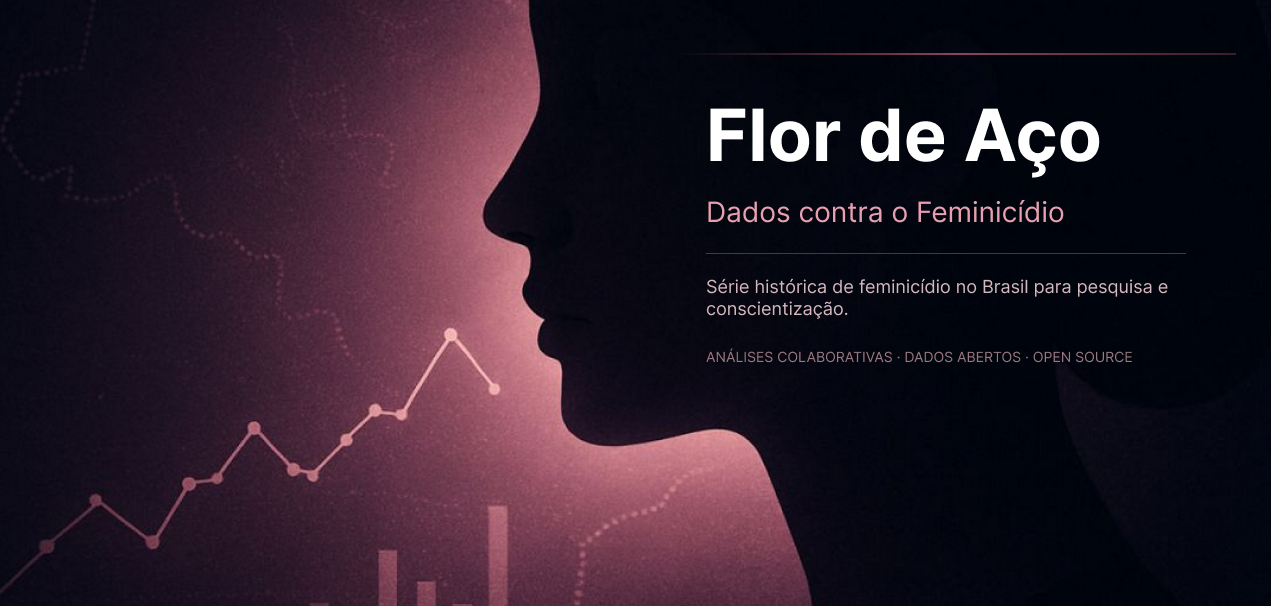
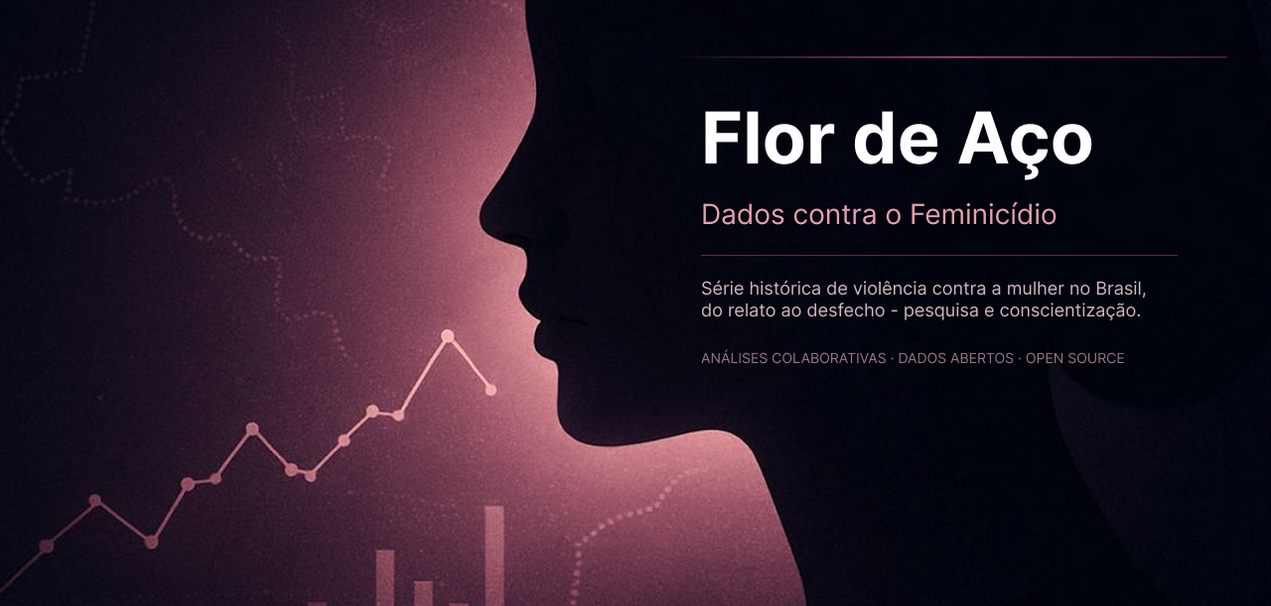
initial commit

diff --git a/index.html b/index.html
@@ -290,7 +290,7 @@ class Portfolio:
               <div style="position: relative;">
                 <a href="https://github.com/rafa-trindade/kaggle-datahub" target="_blank">
                   <img
-                    src="https://github-readme-stats-rafatrindade.vercel.app/api/pin/?username=rafa-trindade&repo=kaggle-datahub&theme=github_dark_dimmed&show_owner=false&description_lines_count=3&bg_color=151B23" />
+                    src="https://github-readme-stats-rafatrindade.vercel.app/api/pin/?username=rafa-trindade&repo=kaggle-datahub&theme=github_dark_dimmed&show_owner=false&description_lines_count=4&bg_color=151B23" />
                 </a>
                 <div class="project-badges">
                   <a href="https://github.com/rafa-trindade/kaggle-datahub" target="_blank">
@@ -309,7 +309,7 @@ class Portfolio:
               <div style="position: relative;">
                 <a href="https://github.com/rafa-trindade/rafael-data-platform" target="_blank">
                   <img
-                    src="https://github-readme-stats-rafatrindade.vercel.app/api/pin/?username=rafa-trindade&repo=rafael-data-platform&theme=github_dark_dimmed&show_owner=false&description_lines_count=5&bg_color=151B23" />
+                    src="https://github-readme-stats-rafatrindade.vercel.app/api/pin/?username=rafa-trindade&repo=rafael-data-platform&theme=github_dark_dimmed&show_owner=false&description_lines_count=4&bg_color=151B23" />
                 </a>
                 <div class="project-badges">
                   <a href="https://github.com/rafa-trindade/rafael-data-platform" target="_blank">
@@ -324,7 +324,7 @@ class Portfolio:
               <div style="position: relative;">
                 <a href="https://github.com/rafa-trindade/financial-api" target="_blank">
                   <img
-                    src="https://github-readme-stats-rafatrindade.vercel.app/api/pin/?username=rafa-trindade&repo=financial-api&theme=github_dark_dimmed&show_owner=false&description_lines_count=5&bg_color=151B23" />
+                    src="https://github-readme-stats-rafatrindade.vercel.app/api/pin/?username=rafa-trindade&repo=financial-api&theme=github_dark_dimmed&show_owner=false&description_lines_count=4&bg_color=151B23" />
                 </a>
                 <div class="project-badges">
                   <a href="https://github.com/rafa-trindade/financial-api" target="_blank">
@@ -344,7 +344,7 @@ class Portfolio:
               <div style="position: relative;">
                 <a href="https://github.com/rafa-trindade/pdp-analytics-engineering" target="_blank">
                   <img
-                    src="https://github-readme-stats-rafatrindade.vercel.app/api/pin/?username=rafa-trindade&repo=pdp-analytics-engineering&theme=github_dark_dimmed&show_owner=false&description_lines_count=3&bg_color=151B23&langs_count=4" />
+                    src="https://github-readme-stats-rafatrindade.vercel.app/api/pin/?username=rafa-trindade&repo=pdp-analytics-engineering&theme=github_dark_dimmed&show_owner=false&description_lines_count=4&bg_color=151B23&langs_count=4" />
                 </a>
                 <div class="project-badges">
                   <a href="https://github.com/rafa-trindade/pdp-analytics-engineering" target="_blank">
@@ -359,7 +359,7 @@ class Portfolio:
               <div style="position: relative;">
                 <a href="https://github.com/rafa-trindade/petstore-pipeline" target="_blank">
                   <img
-                    src="https://github-readme-stats-rafatrindade.vercel.app/api/pin/?username=rafa-trindade&repo=petstore-pipeline&theme=github_dark_dimmed&show_owner=false&description_lines_count=3&bg_color=151B23&langs_count=4" />
+                    src="https://github-readme-stats-rafatrindade.vercel.app/api/pin/?username=rafa-trindade&repo=petstore-pipeline&theme=github_dark_dimmed&show_owner=false&description_lines_count=4&bg_color=151B23&langs_count=4" />
                 </a>
                 <div class="project-badges">
                   <a href="https://github.com/rafa-trindade/petstore-pipeline" target="_blank">
@@ -378,7 +378,7 @@ class Portfolio:
               <div style="position: relative;">
                 <a href="https://github.com/rafa-trindade/behavior-score-app" target="_blank">
                   <img
-                    src="https://github-readme-stats-rafatrindade.vercel.app/api/pin/?username=rafa-trindade&repo=behavior-score-app&theme=github_dark_dimmed&show_owner=false&description_lines_count=2&bg_color=151B23&langs_count=4" />
+                    src="https://github-readme-stats-rafatrindade.vercel.app/api/pin/?username=rafa-trindade&repo=behavior-score-app&theme=github_dark_dimmed&show_owner=false&description_lines_count=4&bg_color=151B23&langs_count=4" />
                 </a>
                 <div class="project-badges">
                   <a href="https://github.com/rafa-trindade/behavior-score-app" target="_blank">
@@ -404,7 +404,7 @@ class Portfolio:
               <div style="position: relative;">
                 <a href="https://github.com/rafa-trindade/behavior-score-obs" target="_blank">
                   <img
-                    src="https://github-readme-stats-rafatrindade.vercel.app/api/pin/?username=rafa-trindade&repo=behavior-score-obs&theme=github_dark_dimmed&show_owner=false&description_lines_count=2&bg_color=151B23&langs_count=4" />
+                    src="https://github-readme-stats-rafatrindade.vercel.app/api/pin/?username=rafa-trindade&repo=behavior-score-obs&theme=github_dark_dimmed&show_owner=false&description_lines_count=3&bg_color=151B23&langs_count=4" />
                 </a>
                 <div class="project-badges">
                   <a href="https://github.com/rafa-trindade/behavior-score-obs" target="_blank">